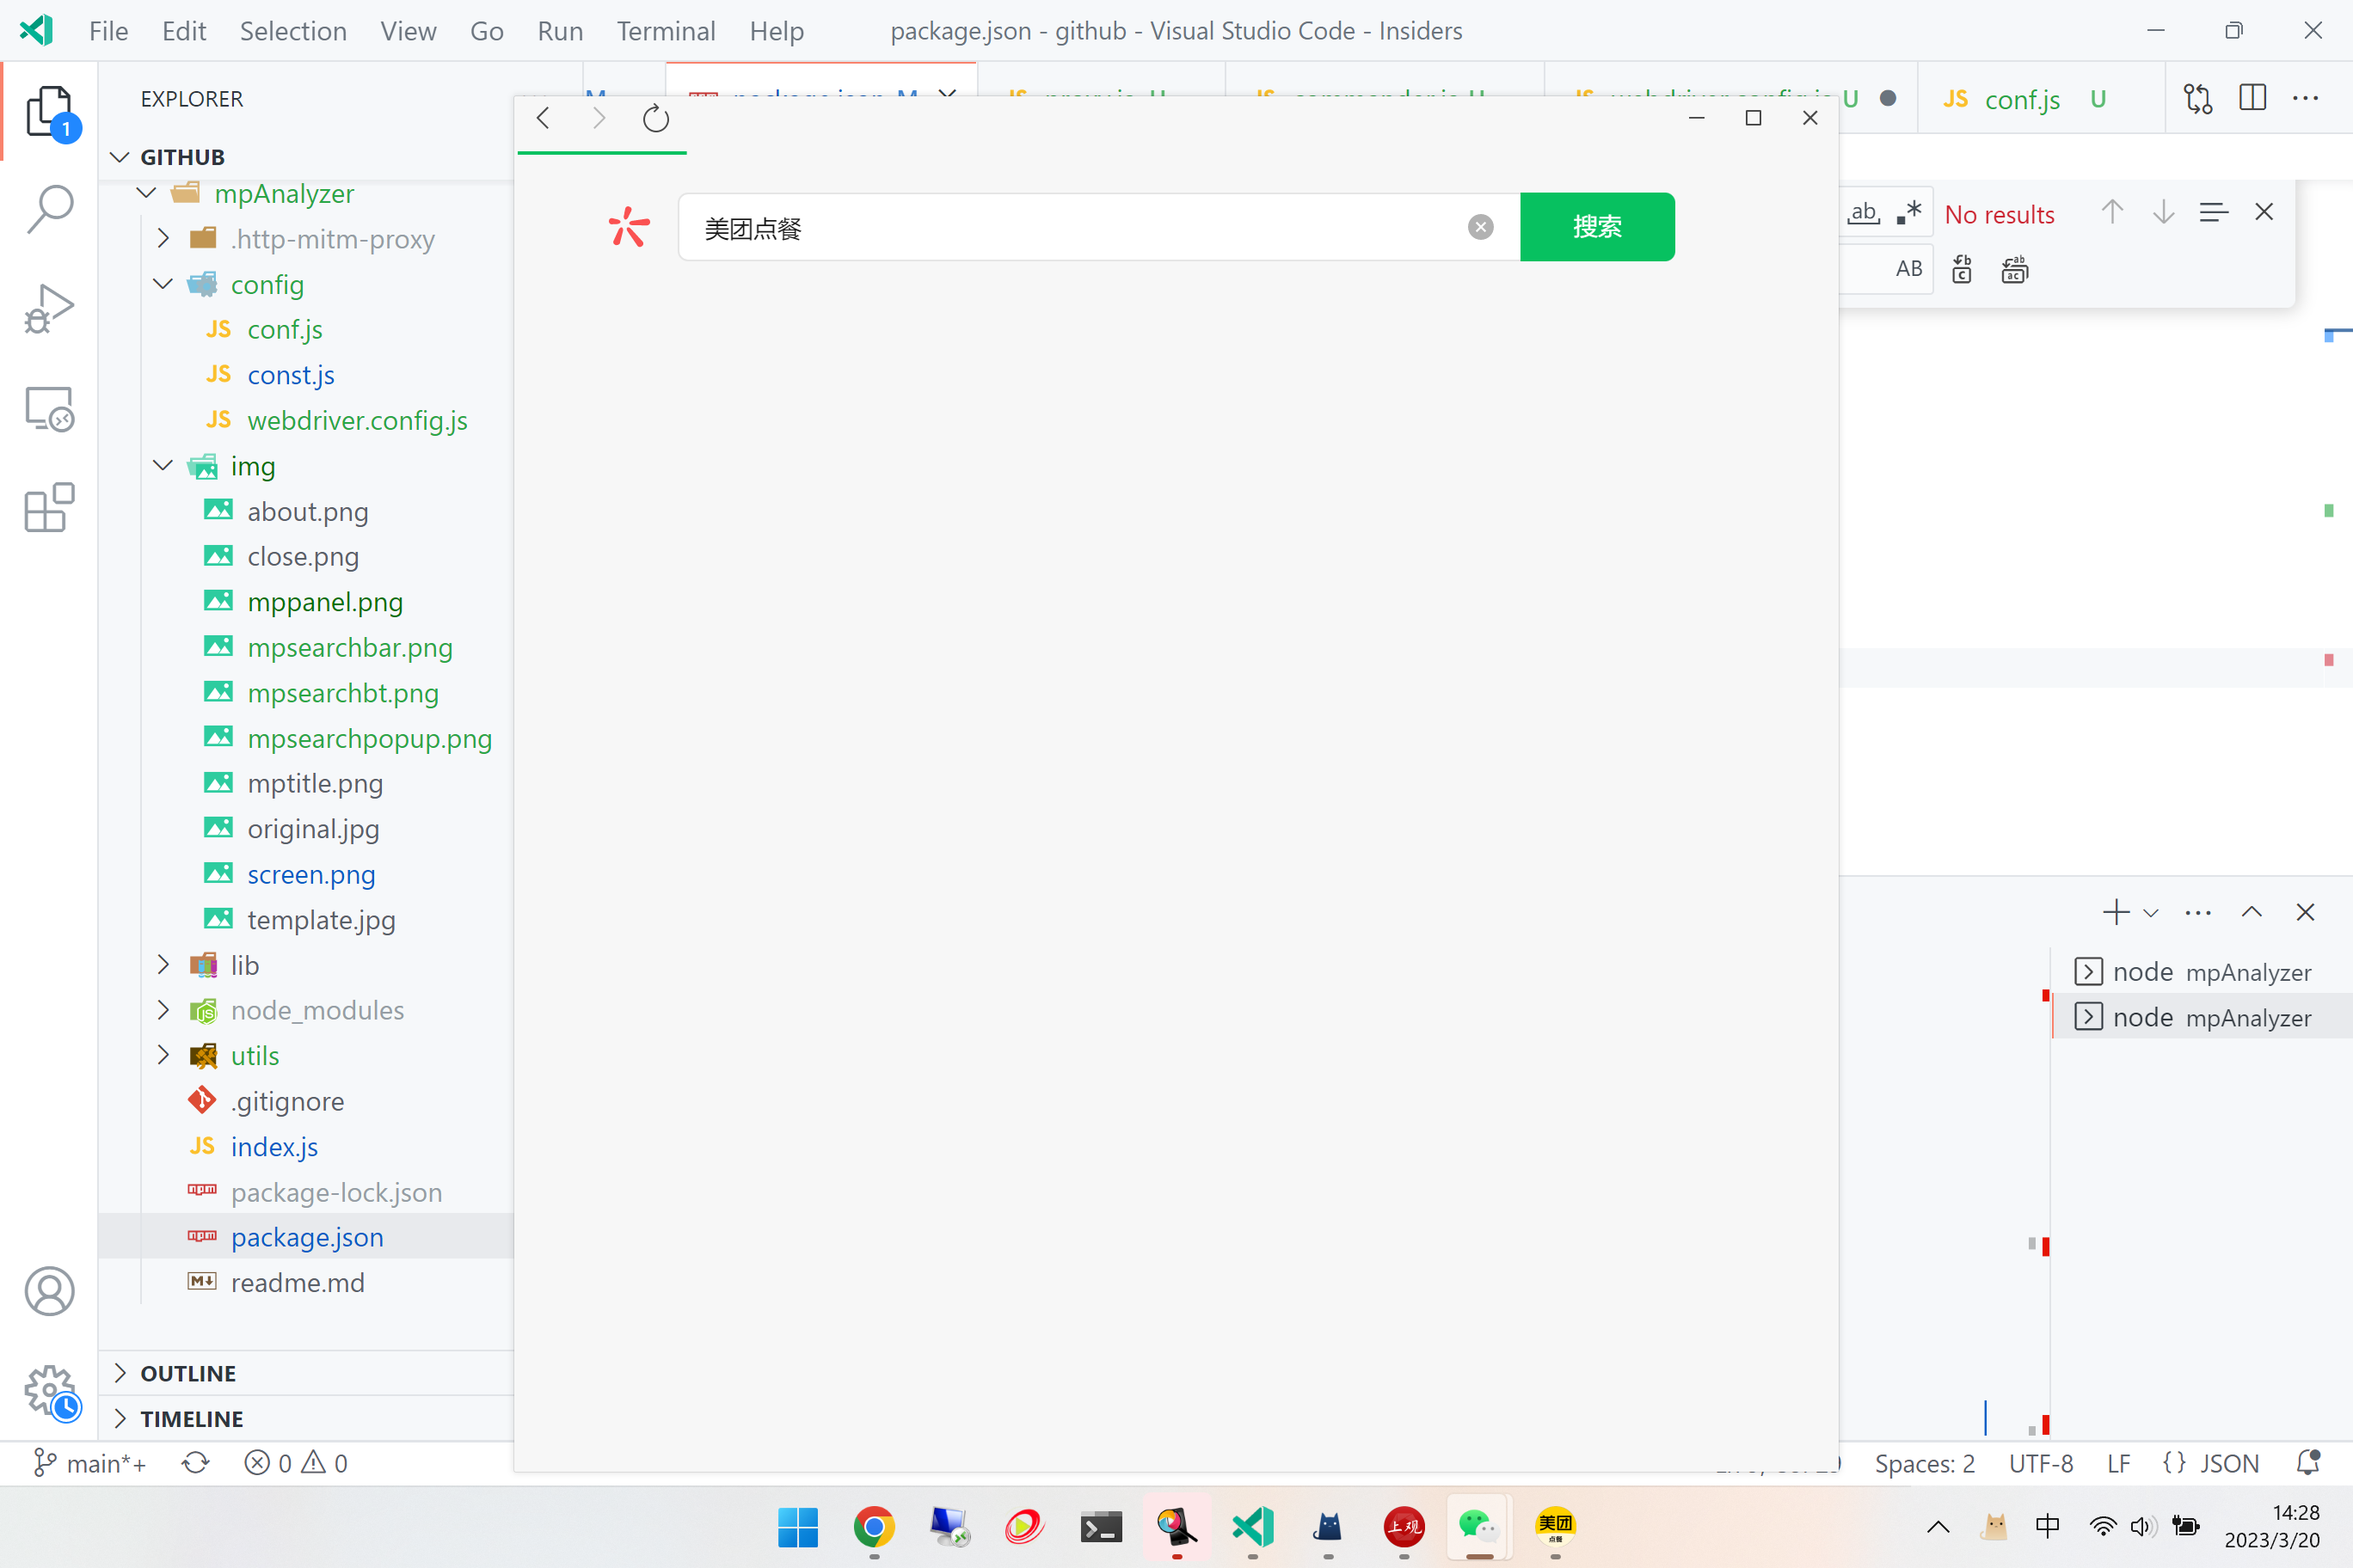
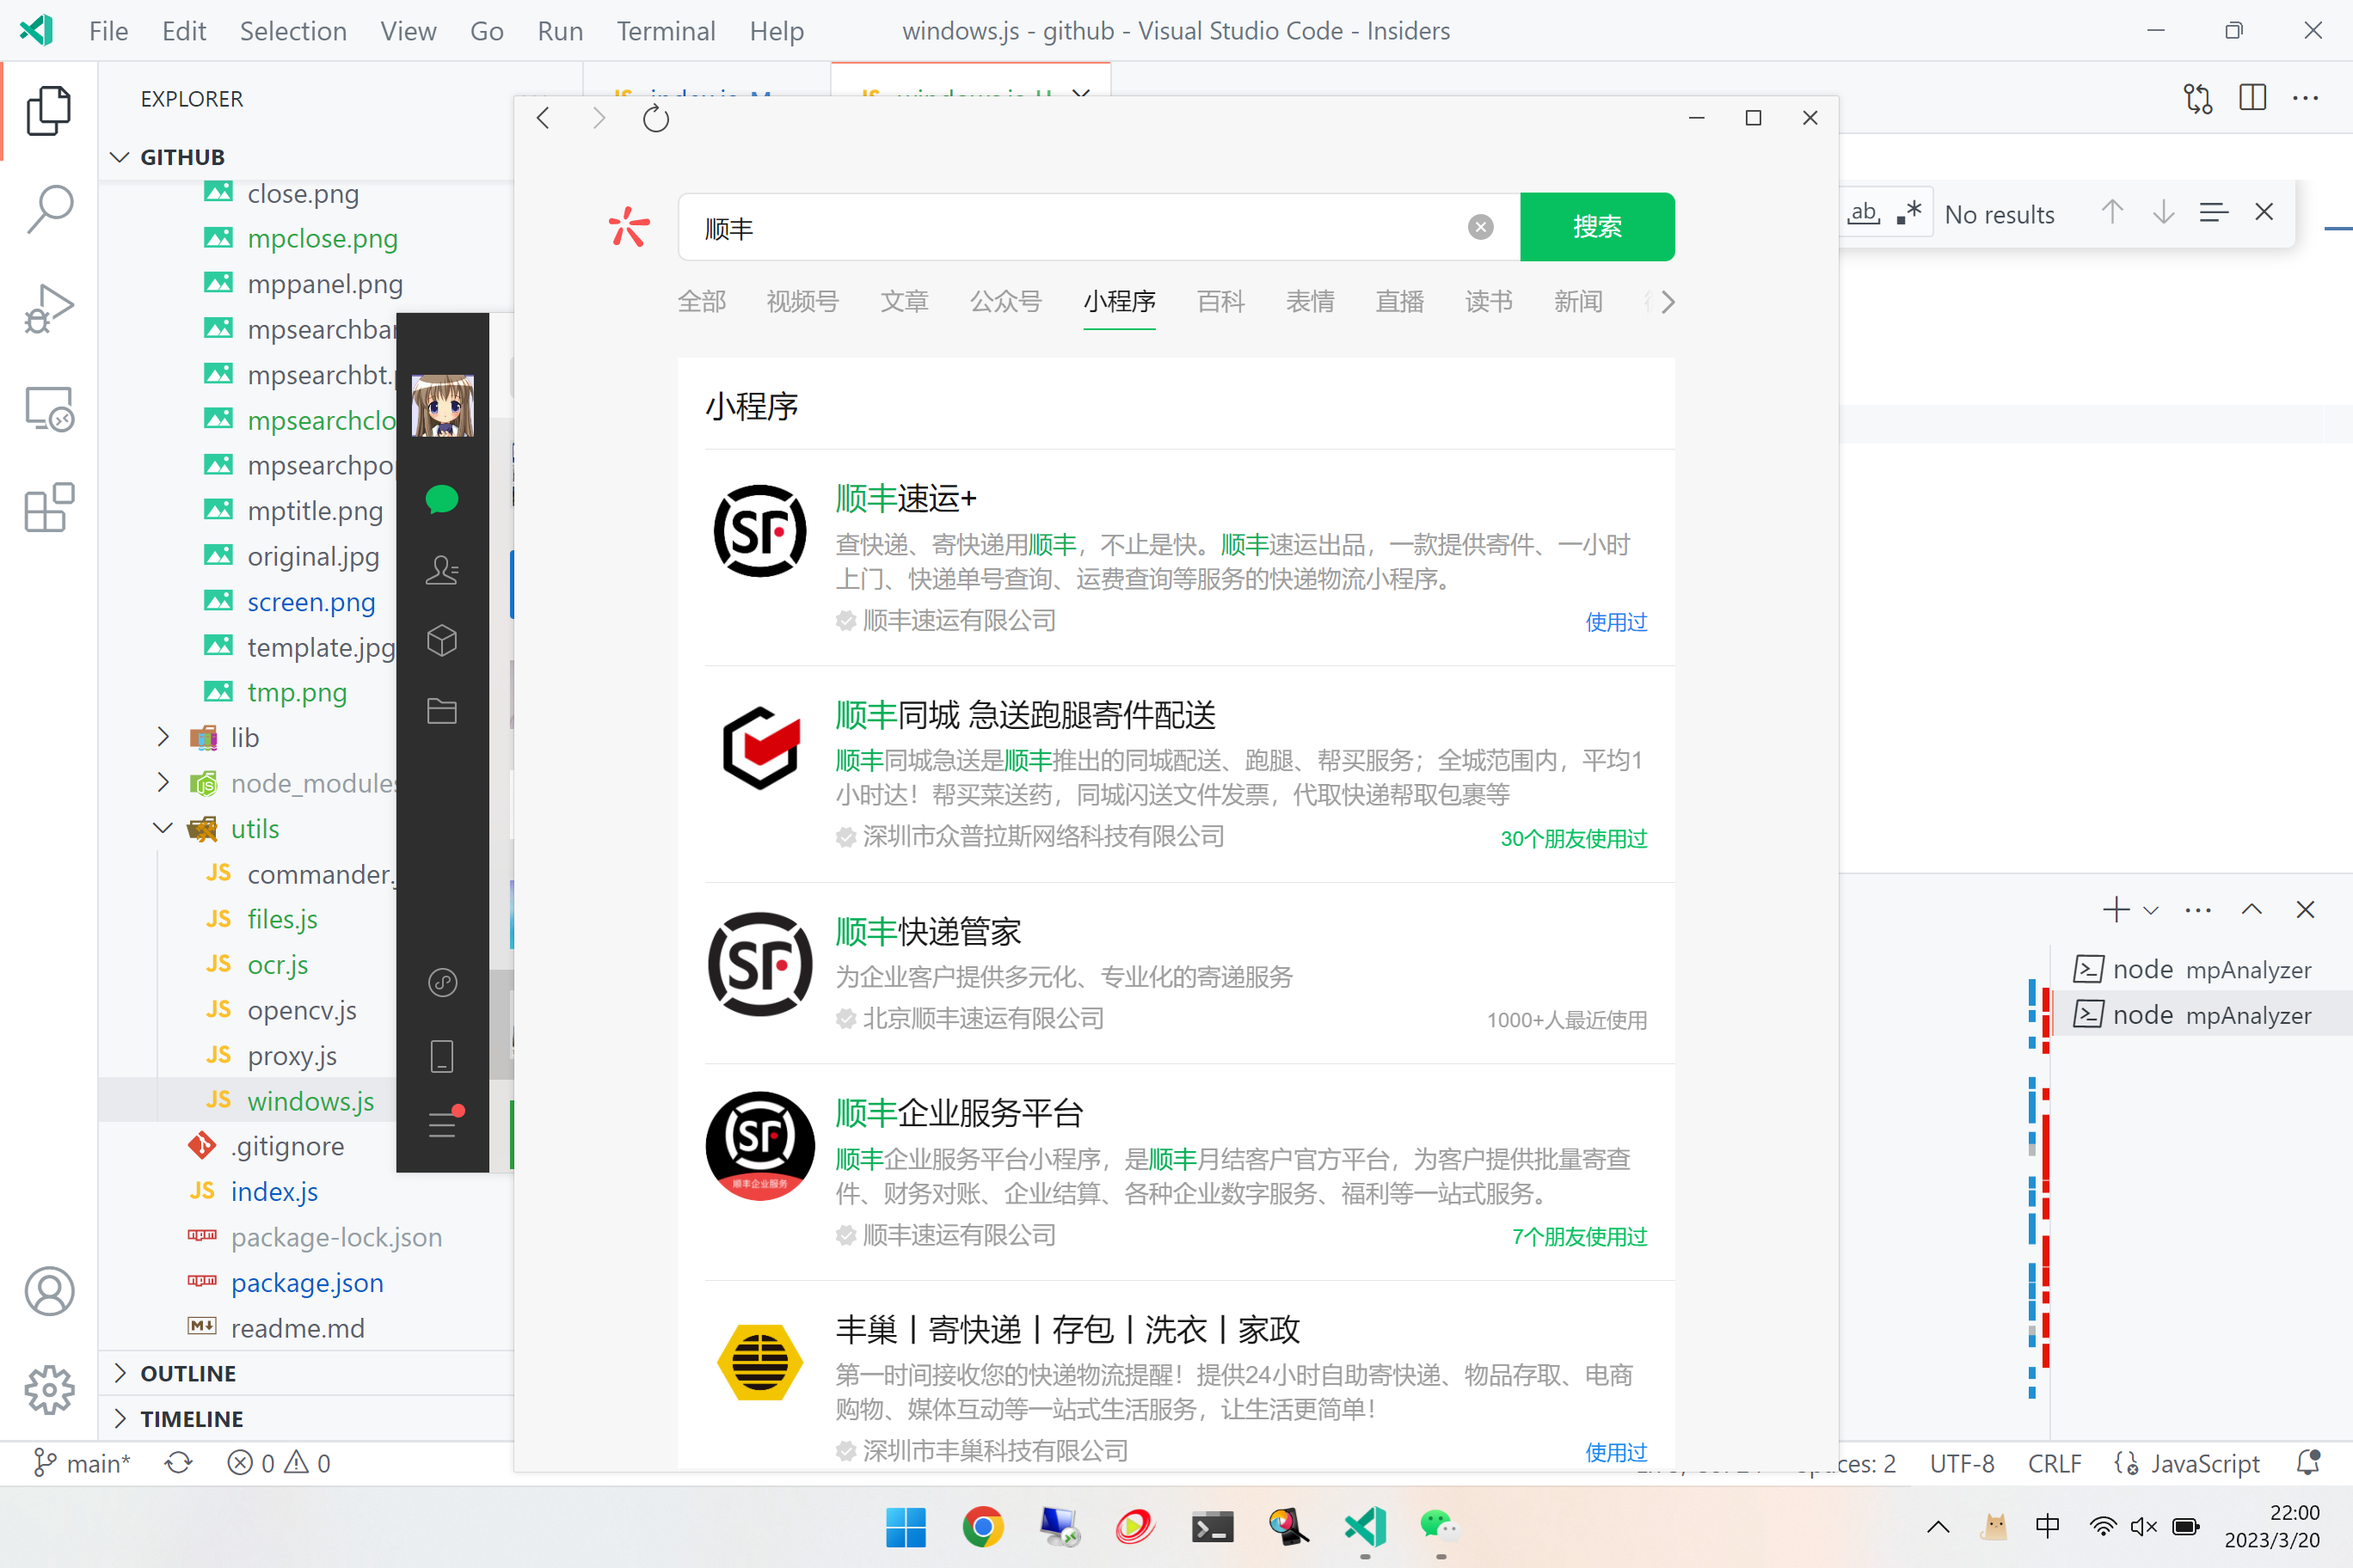
:new:add ocr to repo

diff --git a/index.js b/index.js
@@ -1,23 +1,46 @@
-import { remote } from 'webdriverio'
-import { WEBDRIVER_CONF, PROXY_CONF } from './config/conf.js'
+import { PROXY_CONF } from './config/conf.js'
 import { IMG_PATH } from './config/const.js'
 import { getOpts } from './utils/commander.js'
 import { findSubImgOnScreen } from './utils/opencv.js'
 import proxy from './utils/proxy.js'
+import { getHandleByTitle, getDriver, listenChange } from './utils/windows.js'
+import { ocr } from './utils/ocr.js'
+import Jimp from 'jimp'
+import { removeDir } from './utils/files.js'
 
 async function main () {
+  removeDir(IMG_PATH.tmpDir)
   const opts = getOpts()
-  const driver = await remote(WEBDRIVER_CONF)
-  await driver.execute('windows:click', await findSubImgOnScreen(IMG_PATH.mppanel))
-  await driver.execute('windows:click', await findSubImgOnScreen(IMG_PATH.mpsearchpopup))
-  await driver.pause(500)
-  await driver.execute('windows:keys', { actions: { text: opts.name }})
-  await driver.execute('windows:click', await findSubImgOnScreen(IMG_PATH.mpsearchbt))
-  await driver.pause(500)
+  const wechat = await getDriver({ app: 'C:\\Program Files (x86)\\Tencent\\WeChat\\WeChat.exe' })
+  await wechat.execute('windows:click', await findSubImgOnScreen(IMG_PATH.mppanel))
+  await wechat.execute('windows:click', await findSubImgOnScreen(IMG_PATH.mpsearchpopup))
+  await wechat.pause(1500)
+  await wechat.execute('windows:keys', { actions: { text: opts.name }})
+  await wechat.execute('windows:click', await findSubImgOnScreen(IMG_PATH.mpsearchbt))
+  await wechat.pause(1200)
   const { x: mpsearchbtX, y: mpsearchbtY } = await findSubImgOnScreen(IMG_PATH.mpsearchbt)
-  await driver.execute('windows:click', { x: mpsearchbtX, y: mpsearchbtY + 190  })
+  const image = await Jimp.read(IMG_PATH.screen)
+  image.crop(mpsearchbtX - 140, mpsearchbtY + 390, 1160, 212)
+  await image.writeAsync(IMG_PATH.tmp)
+  const text = await ocr(IMG_PATH.tmp)
+  console.log('ocr results', text)
+  const title = text.split('\r\n')[0].split(' ')[0].replace(' | ', '丨').replace('圭', '丰')
+  console.log('title', title)
+  await wechat.execute('windows:click', { x: mpsearchbtX, y: mpsearchbtY + 190  })
+  await wechat.pause(1000)
+  const handle = await getHandleByTitle(title)
+  const mp = await getDriver({ appTopLevelWindow: '0x' + handle.toString(16) })
+  const res = await listenChange(mp, {
+    interval: 100,
+    maxSameTimes: 3,
+    timeout: 50000
+  })
+  console.log(title + ' loading ' + (res.success ? 'success' : 'failure') + '\nUsed ' + res.time + ' ms\nUI Changed ' + res.changeTimes + ' times\nContent:\n' + res.text)
+  await wechat.execute('windows:click', await findSubImgOnScreen(IMG_PATH.mpclose))
+  await wechat.execute('windows:click', await findSubImgOnScreen(IMG_PATH.mpsearchclose))
+  return
+  
   proxy.listen(PROXY_CONF)
   console.log(`listening on ${PROXY_CONF.port}`)
-  return
 }
 main()

diff --git a/utils/windows.js b/utils/windows.js
@@ -1,0 +1,62 @@
+import { User32 } from 'win32-api/promise'
+import { WEBDRIVER_CONF } from '../config/conf.js'
+import { remote } from 'webdriverio'
+import { IMG_PATH } from '../config/const.js'
+import Jimp from 'jimp'
+import { ocr } from '../utils/ocr.js'
+
+export const getHandleByTitle = async (title) => {
+  const user32 = User32.load()
+  const calcLpszWindow = Buffer.from(title + '\0', 'ucs2')
+  return await user32.FindWindowExW(0, 0, null, calcLpszWindow) 
+}
+
+const getCapability = ({ appTopLevelWindow, app }) => {
+  return Object.assign(WEBDRIVER_CONF, {
+    capabilities: {
+      platformName: 'windows',
+      'appium:automationName': 'windows',
+      'appium:appTopLevelWindow': appTopLevelWindow,
+      'appium:app': app
+    }
+  })
+}
+
+export const getDriver = async({ appTopLevelWindow, app }) => {
+  return await remote(getCapability({ appTopLevelWindow, app }))
+}
+
+export const listenChange = (driver, { interval = 1000, timeout = 10000, maxSameTimes = 5 }) => new Promise(resolve => {
+  let tmpPath = IMG_PATH.tmp
+  let sameTimes = 1
+  const startTime = performance.now()
+  const done = async () => {
+    const newTmpPath = tmpPath.replace(/\d+/, a => +a + 1)
+    await driver.saveScreenshot(newTmpPath)
+    const img = await Jimp.read(tmpPath)
+    const newImg = await Jimp.read(newTmpPath)
+    const diff = Jimp.compareHashes(img.pHash(), newImg.pHash())
+    if (diff === 0) {
+      if (++sameTimes === maxSameTimes) return clear(true)
+    } else {
+      tmpPath = newTmpPath
+    }
+    await driver.pause(interval)
+    done()
+  }
+  let timerTimeout = setTimeout(() => {
+    clear(false)
+  }, timeout)
+  const clear = async(success) => {
+    clearTimeout(timerTimeout)
+    timerTimeout = null
+    const text = await ocr(tmpPath)
+    resolve({
+      success,
+      time: performance.now() - startTime,
+      changeTimes: tmpPath.match(/\d+/)[0],
+      text
+    })
+  }
+  done()
+})

diff --git a/config/const.js b/config/const.js
@@ -3,21 +3,10 @@ export const IMG_PATH = {
   mppanel: './img/mppanel.png',
   mpsearchpopup: './img/mpsearchpopup.png',
   mpsearchbar: './img/mpsearchbar.png',
-  mpsearchbt: './img/mpsearchbt.png'
-}
-
-// app: 'C:\\Program Files (x86)\\Tencent\\WeChat\\WeChat.exe',
-// app: 'Microsoft.WindowsCalculator_8wekyb3d8bbwe!App',
-export const WEBDRIVER = {
-  path: '/',
-  port: 4723,
-  capabilities: {
-    platformName: 'windows',
-    'appium:automationName': 'windows',
-    'appium:app': 'C:\\Program Files (x86)\\Tencent\\WeChat\\WeChat.exe',
-  },
-  logLevel: 'silent',
-  waitforTimeout: 10000,
-  connectionRetryTimeout: 120000,
-  connectionRetryCount: 0,
+  mpsearchbt: './img/mpsearchbt.png',
+  mpclose: './img/mpclose.png',
+  mpclose2: './img/mpclose2.png',
+  mpsearchclose: './img/mpsearchclose.png',
+  tmp: './img/tmp/0.png',
+  tmpDir: './img/tmp'
 }

diff --git a/config/conf.js b/config/conf.js
@@ -1,12 +1,11 @@
+
 // app: 'C:\\Program Files (x86)\\Tencent\\WeChat\\WeChat.exe',
-// app: 'Microsoft.WindowsCalculator_8wekyb3d8bbwe!App',
 export const WEBDRIVER_CONF = {
   path: '/',
   port: 4723,
   capabilities: {
     platformName: 'windows',
-    'appium:automationName': 'windows',
-    'appium:app': 'C:\\Program Files (x86)\\Tencent\\WeChat\\WeChat.exe',
+    'appium:automationName': 'windows'
   },
   logLevel: 'silent',
   waitforTimeout: 10000,

diff --git a/utils/files.js b/utils/files.js
@@ -1,0 +1,15 @@
+import fs from 'fs'
+import path from 'path'
+export const removeDir = dir => {
+  let files = fs.readdirSync(dir)
+  for(var i=0;i<files.length;i++){
+    let newPath = path.join(dir,files[i]);
+    let stat = fs.statSync(newPath)
+    if(stat.isDirectory()){
+      removeDir(newPath);
+    }else {
+      fs.unlinkSync(newPath);
+    }
+  }
+  fs.rmdirSync(dir)
+}

diff --git a/utils/ocr.js b/utils/ocr.js
@@ -1,0 +1,6 @@
+import { exec } from 'child_process'
+export const ocr = imgPath => new Promise(resolve => {
+  exec('tesseract "' + imgPath + '" stdout -l chi_sim', (error, stdout, stderr) => {
+    resolve(stdout)
+  });
+})
